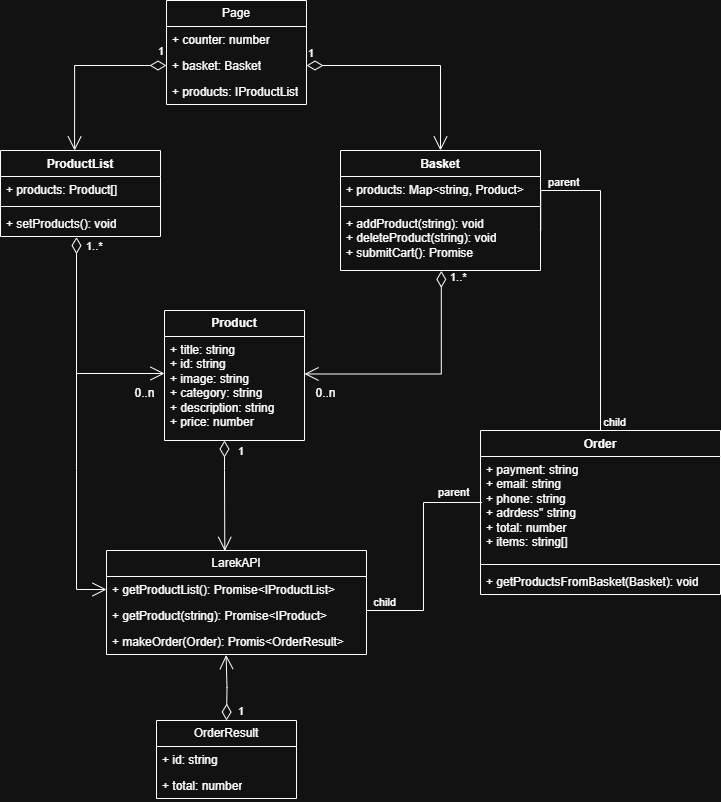
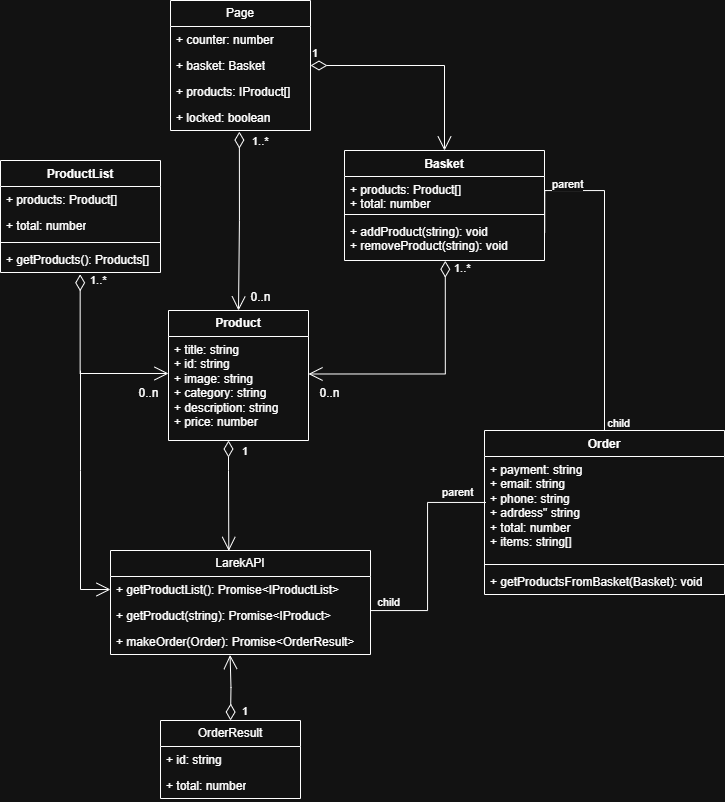
fix: uml diagram

diff --git a/src/components/Basket.ts b/src/components/Basket.ts
@@ -4,7 +4,7 @@ import { EventEmitter } from './base/events';
 import { IProduct } from './Product';
 
 export interface IBasket {
-	products: Map<string, IProduct>;
+	products: IProduct[];
 	total: number;
 	addProduct(id: string): void;
 	removeProduct(id: string): void;
@@ -12,7 +12,7 @@ export interface IBasket {
 
 interface IBasketView {
 	products: HTMLElement[];
-	total: number;
+	totalPrice: number;
 }
 
 export class Basket extends Component<IBasketView> {
@@ -46,7 +46,7 @@ export class Basket extends Component<IBasketView> {
 		}
 	}
 
-	set total(total: number) {
-		this.setText(this._price, total);
+	set totalPrice(totalPrice: number) {
+		this.setText(this._price, totalPrice);
 	}
 }
